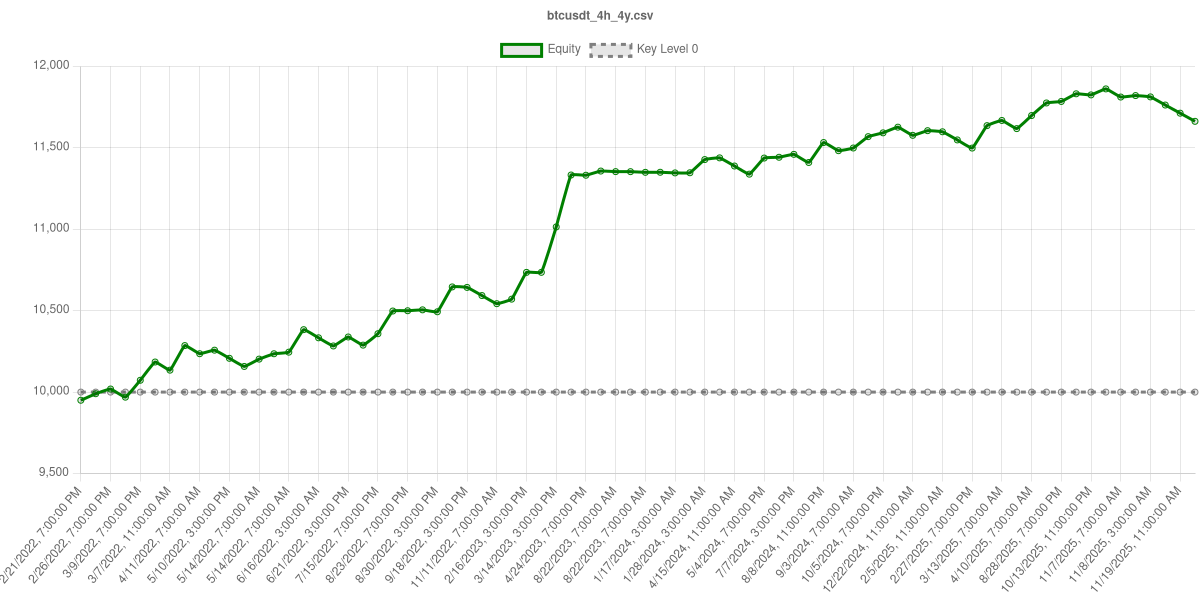
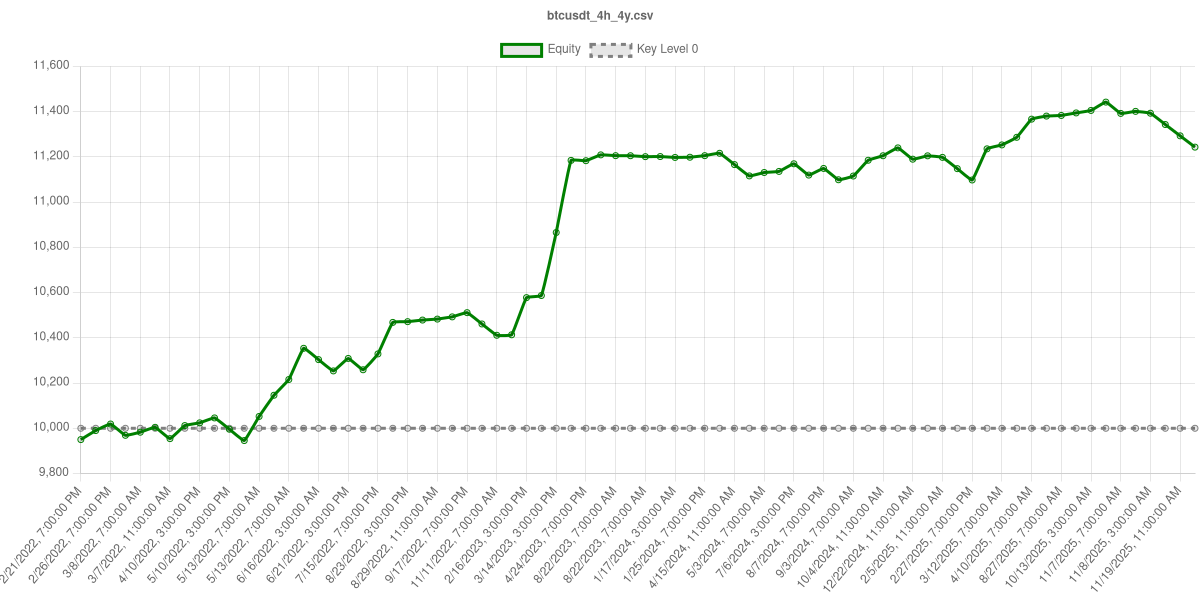
update

diff --git a/backend/service-backtest/src/index.ts b/backend/service-backtest/src/index.ts
@@ -14,7 +14,7 @@ import { R0_ } from "./rules/0.js";
 import { R1_ } from "./rules/1.js";
 import { R2_ } from "./rules/2.js";
 import { R3_ } from "./rules/3.js";
-import { R4_ } from "./rules/4.js";
+import { countEMATouches, R4_ } from "./rules/4.js";
 import { calculateSqueeze } from "./common/squeeze.js";
 
 dotenv.config({ path: ".env.development" });
@@ -155,6 +155,11 @@ export class Backtester {
 
     const rule1 = lastSqueeze === "blue";
 
+    const EMA25 = calculateEMA(candles, 25);
+    const { touchCount, totalTouches } = countEMATouches(candles, EMA25, 5);
+
+    const rule4 = touchCount >= 2;
+
     for (const order of this.orders) {
       if (order.state !== "executed") continue;
 
@@ -169,8 +174,9 @@ export class Backtester {
       if (isLong) {
         if (currentCandle.low <= order.stop_loss) {
           closeInfo = { reason: "stop_loss", price: order.stop_loss };
-        } else if (rule1) {
-          closeInfo = { reason: "take_profit", price: currentCandle.high };
+        } else if (rule1 || rule4) {
+          const closeAt = rule4 ? EMA25.at(-1)?.value! : currentCandle.high;
+          closeInfo = { reason: "take_profit", price: closeAt };
         }
       }
 
@@ -352,7 +358,7 @@ export class Backtester {
       }
 
       try {
-        //await this.sleep(1000);
+        // await this.sleep(1000);
 
         await this.processOrders(candles, currentCandle);
 
